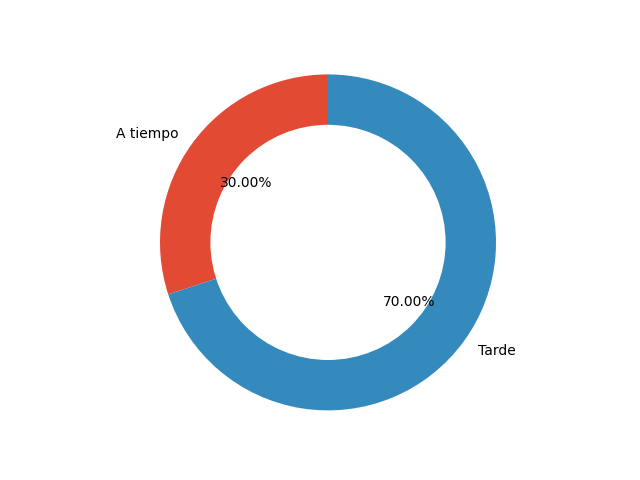
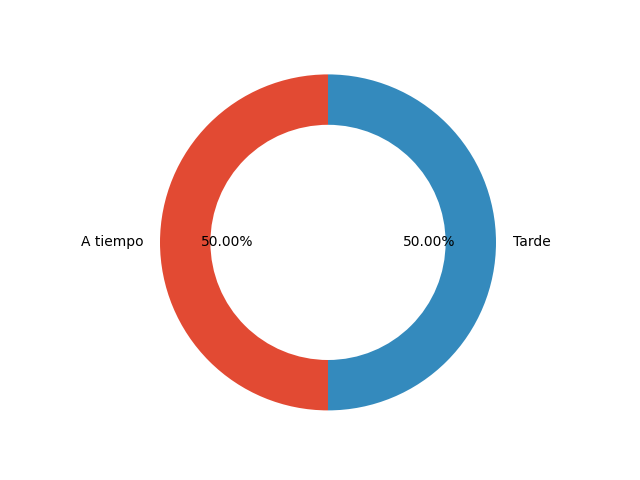
v1.20 arreglo de errores

diff --git a/panel.py b/panel.py
@@ -31,6 +31,7 @@ class PanelControl(QMainWindow):
         super().__init__()
         # Carga Panel de cotrol
         self.panel = uic.loadUi("frames\panel.ui",self)
+        self.EstadoPag=True
  
         # Establece titulo de la ventana
         self.panel.setWindowTitle("Bibliotk")
@@ -65,7 +66,7 @@ class PanelControl(QMainWindow):
         self.panel.actionAcerca_de.triggered.connect(self.acercaDe) # Ayuda: Acerca de
         self.panel.actionManual_de_Usuario.triggered.connect(self.abrirManual) # Ayuda: Manual de usuario
 
-
+        
 
         #FUNCIONES DE LOS BOTONES
 
@@ -196,11 +197,16 @@ class PanelControl(QMainWindow):
             self.panel.ClaveNueva.setEchoMode(QLineEdit.EchoMode.Password)
 
     def seleccionarAutores(self):
-        self.selecA = Autores()
-        self.selecA.remover.clicked.connect(lambda:self.removerAutor())
-        self.selecA.agregar.clicked.connect(lambda:self.agregarAutor(self.isbm))
-        self.selecA.BuscarA.clicked.connect(lambda:self.buscarAutores2())
-        self.tablaAutorLibros1() 
+        if self.EstadoPag:
+            self.EstadoPag=False
+            self.selecA = Autores()
+            self.selecA.remover.clicked.connect(lambda:self.removerAutor())
+            self.selecA.agregar.clicked.connect(lambda:self.agregarAutor(self.isbm))
+            self.selecA.BuscarA.clicked.connect(lambda:self.buscarAutores2())
+            self.tablaAutorLibros1()
+        else:
+            self.EstadoPag=True
+
 
     def agregarAutor(self,isbmp):
         filaSeleccionada = self.tablaA.selectedItems()
@@ -321,7 +327,7 @@ class PanelControl(QMainWindow):
     def seleccionarClientes(self):
         self.selecC = Clientes()
         self.tablaC2=self.selecC.tabla_Clientes2
-        sql="SELECT idClientes,Cedula,Nombre,Nombre2,Apellido,Apellido2,Genero,fechaNa,EstatusCliente FROM Clientes WHERE EstatusCliente=?"
+        sql="SELECT idClientes,Cedula,Nombre,Nombre2,Apellido,Apellido2,Genero,fechaNa,EstatusCliente FROM Clientes WHERE EstatusCliente=? AND ACTIVO='ACTIVO'"
         param = ("LIBRE",)
         res= consulta(sql, param).fetchall()
         colum=len(res)
@@ -493,7 +499,6 @@ class PanelControl(QMainWindow):
 
                 if clavePerfil != clave1:
                     
-
                     # Enviamos un correo de notificacion
                     sql2 = "SELECT email FROM Usuarios WHERE idUsuario=?"
                     param=(self.usuario,)
@@ -761,6 +766,7 @@ class PanelControl(QMainWindow):
         self.tableWidget = self.panel.tabla_Libros
         self.tableWidget.setRowCount(colum)
         tablerow=0
+
       
         self.panel.ISBML.clear()
         self.panel.TituloL.clear()
@@ -1253,14 +1259,13 @@ class PanelControl(QMainWindow):
             fecha_entReal = fecha3.strftime('%d/%m/%Y')
             fd=datetime.now()
             ff=fd.date()
-            una_fecha = datetime.strptime(ff,'%d/%m/%Y') 
             Eliminar1=str(dato)
             Eliminar2=re.sub(",","",Eliminar1)
             Eliminar3=re.sub("'","",Eliminar2)
             Eliminar4=re.sub("()","",Eliminar3)
             vddfi =re.sub("[()]","",Eliminar4)
             print(fecha_entReal)
-            print(una_fecha)
+            print(ff)
             print(ISBMn)
             print(vddfi)
             print(IdClien+" "+IdUser+" "+ISBMn+" "+fecha_sal+" "+fecha_ent+" "+fecha_entReal)
@@ -1271,7 +1276,7 @@ class PanelControl(QMainWindow):
                         ret = QMessageBox.question(self, '¡ADVERTENCIA!' , "¿Desea modificar esta fila?" , QMessageBox.Yes | QMessageBox.No)
                         print(ret)
                         if ret!=65536:
-                            if fecha_entReal!=una_fecha:
+                            if fecha_entReal!=ff:
                                 fecha_entReal=fecha3.strftime('%d/%m/%Y')
                                 print(fecha_entReal)
                                 sql2="UPDATE Clientes SET EstatusCliente=? WHERE idClientes=?"
@@ -1516,8 +1521,8 @@ class PanelControl(QMainWindow):
                 Ejemplar=0
             fd=datetime.now()
             ff=fd.date()
-            una_fecha = ff.strftime('%d/%m/%Y')
-            
+            una_fecha=ff.strftime('%d/%m/%Y')
+            print(ff)
             param4=(IdClien,)
             estatus1=consulta(sql4,param4).fetchone()
             Eliminar1=str(estatus1)
@@ -1539,7 +1544,8 @@ class PanelControl(QMainWindow):
                                     menos=Ejemplar-1
                                     param2=(menos,ISBMn)
                                     consulta(sql2,param2)
-                                    param3=("BLOQUEADO",IdClien)
+                                    nwe="BLOQUEADO"
+                                    param3=(nwe,IdClien,)
                                     consulta(sql5,param3)
                                     self.panel.buscar_Cliente.clear()
                                     self.panel.buscar_Libro.clear()
@@ -1550,7 +1556,7 @@ class PanelControl(QMainWindow):
                                     consulta(sql,param12)
                                     menos=Ejemplar-1
                                     param2=(menos,ISBMn)
-                                    consulta(sql5,param3)
+                                    consulta(sql2,param2)
                                     self.panel.buscar_Cliente.clear()
                                     self.panel.buscar_Libro.clear()
                                     QMessageBox.question(self, '¡EXITO!' , "Prestamo registrado exitosamente" , QMessageBox.Ok)
@@ -1605,7 +1611,6 @@ class PanelControl(QMainWindow):
         self.panel.stackedWidget.setCurrentIndex(6)
         self.cargarEstadisticas()
         
-
     def cargarEstadisticas(self):
         # Estos datos deben ser cambiados por los de la bdd
 
@@ -1663,16 +1668,17 @@ class PanelControl(QMainWindow):
         qry="SELECT ISBM FROM Prestamo WHERE ACTIVO='ACTIVO'"
         xd=consulta(qry).fetchall()
         con=0
+        fila=[]
         datose=[]
-        lib=[]
         for i in xd:
             Eliminar1=str(i)
             Eliminar2=re.sub(",","",Eliminar1)
             Eliminar3=re.sub("'","",Eliminar2)
             Eliminar4=re.sub("()","",Eliminar3)
             ipn =re.sub("[()]","",Eliminar4)
-            if i!=xd[con]:
-                qry2="SELECT COUNT(idPrestamo),ISBM FROM Prestamo WHERE ISBM=? AND ACTIVO='ACTIVO'"
+            print(ipn)
+            if ipn not in fila:
+                qry2="SELECT COUNT(idPrestamo) FROM Prestamo WHERE ISBM=? AND ACTIVO='ACTIVO'"
                 param=(ipn,)
                 res=consulta(qry2,param).fetchone()
                 Eliminar1=str(res)
@@ -1680,41 +1686,53 @@ class PanelControl(QMainWindow):
                 Eliminar3=re.sub("'","",Eliminar2)
                 Eliminar4=re.sub("()","",Eliminar3)
                 Estot =re.sub("[()]","",Eliminar4)
-                print(Estot)
-                print(Estot[0])
-                datose.append(res[0])
-                lib.append(res[1])
-                print(res[1])
+                Estote=int(Estot)
+                datose.append(Estote)
+                fila.append(ipn)
                 con+=1
-
         dt3=0
         dt2=0
         dt=0
-
+    
         log=len(datose)
+        
+        if datose!=[] and log==1:
+            dt=int(max(datose,default=0))
+            #datose.remove(dt)
 
-        if datose!=[]:
-            dt=int(max(datose))
-            datose.remove(dt)
-
-        if log>1:
-            dt2=int(max(datose))
-            datose.remove(dt2)
+        if datose!=[] and log>1:
+            dt=int(max(datose,default=0))
+            #datose.remove(dt)
+            dt2=int(max(datose,default=0))
+            #datose.remove(dt2)
        
-        if log>2:
-            dt3=int(max(datose))
-            datose.remove(dt3)
-
+        if datose!=[] and log>2:
+            dt=int(max(datose,default=0))
+            datose.remove(dt)
+            dt2=int(max(datose,default=0))
+            datose.remove(dt2)
+            dt3=int(max(datose,default=0))
+        
 
         qry5="SELECT COUNT(idPrestamo) FROM Prestamo WHERE F_d_ent=F_d_enReal AND ACTIVO='ACTIVO'"
-        print(consulta(qry5).fetchone())
+        p=consulta(qry5).fetchone()
+        Eliminar1=str(p)
+        Eliminar2=re.sub(",","",Eliminar1)
+        Eliminar3=re.sub("'","",Eliminar2)
+        Eliminar4=re.sub("()","",Eliminar3)
+        donutdt1 =re.sub("[()]","",Eliminar4)
 
-        qry6="SELECT COUNT(idPrestamo) FROM Prestamo WHERE ACTIVO='ACTIVO'"
-        print(consulta(qry6).fetchone())
+        qry6="SELECT COUNT(idPrestamo) FROM Prestamo WHERE F_d_ent!=F_d_enReal AND ACTIVO='ACTIVO'"
+        p1=consulta(qry6).fetchone()
+        Eliminar1=str(p1)
+        Eliminar2=re.sub(",","",Eliminar1)
+        Eliminar3=re.sub("'","",Eliminar2)
+        Eliminar4=re.sub("()","",Eliminar3)
+        donutdt2 =re.sub("[()]","",Eliminar4)
 
 
-        self.creaDona(30, 70)
-        self.creaBarras("Libro1", dt, "Libro2", dt2, "Libro3", dt3)
+        self.creaDona(donutdt1, donutdt2)
+        self.creaBarras("", dt, "Libro2", dt2, "Libro3", dt3)
 
         # Recarga imagenes de estadisticas
         self.pixmapBarras = QPixmap("reportes/barras.png")
@@ -1722,7 +1740,6 @@ class PanelControl(QMainWindow):
 
         self.pixmapDona = QPixmap("reportes/dona.png")
         self.panel.donaLabel.setPixmap(self.pixmapDona)
-
 
 
     # Crea un png del grafico de barras
@@ -1845,7 +1862,53 @@ class PanelControl(QMainWindow):
         Eliminar4=re.sub("()","",Eliminar3)
         PAtotales =re.sub("[()]","",Eliminar4)
 
-        self.creaBarras("Libro1", 120, "Libro2", 80, "Libro3", 50)
+        qry="SELECT ISBM FROM Prestamo WHERE ACTIVO='ACTIVO'"
+        xd=consulta(qry).fetchall()
+        con=0
+        fila=[]
+        datose=[]
+        for i in xd:
+            Eliminar1=str(i)
+            Eliminar2=re.sub(",","",Eliminar1)
+            Eliminar3=re.sub("'","",Eliminar2)
+            Eliminar4=re.sub("()","",Eliminar3)
+            ipn =re.sub("[()]","",Eliminar4)
+            print(ipn)
+            if ipn not in fila:
+                qry2="SELECT COUNT(idPrestamo) FROM Prestamo WHERE ISBM=? AND ACTIVO='ACTIVO'"
+                param=(ipn,)
+                res=consulta(qry2,param).fetchone()
+                Eliminar1=str(res)
+                Eliminar2=re.sub(",","",Eliminar1)
+                Eliminar3=re.sub("'","",Eliminar2)
+                Eliminar4=re.sub("()","",Eliminar3)
+                Estot =re.sub("[()]","",Eliminar4)
+                Estote=int(Estot)
+                datose.append(Estote)
+                fila.append(ipn)
+                con+=1
+        dt3=0
+        dt2=0
+        dt=0
+    
+        log=len(datose)
+        
+        if datose!=[] and log==1:
+            dt=int(max(datose,default=0))
+
+        if datose!=[] and log>1:
+            dt=int(max(datose,default=0))
+            datose.remove(dt)
+            dt2=int(max(datose,default=0))
+       
+        if datose!=[] and log>2:
+            dt=int(max(datose,default=0))
+            datose.remove(dt)
+            dt2=int(max(datose,default=0))
+            datose.remove(dt2)
+            dt3=int(max(datose,default=0))
+
+        self.creaBarras("Libro1", dt, "Libro2", dt2, "Libro3", dt3)
 
         # Abre File Dialog
         rutadestino = QFileDialog.getExistingDirectory(self, caption="Selecciona Ubicación")
@@ -2032,7 +2095,7 @@ class PanelControl(QMainWindow):
             s = create_connection(("publuu.com", 80))
             if s is not None:
                 s.close
-            webbrowser.open_new_tab("https://publuu.com/flip-book/185493/465244")
+            webbrowser.open_new_tab("https://publuu.com/flip-book/198125/479879")
         except OSError:
             QMessageBox.critical(self, "No hay conexión a internet", "No se a podido aceder a la version online del manual, se abrirá la versión local", QMessageBox.Ok)
     

diff --git a/autores.py b/autores.py
@@ -1,15 +1,15 @@
 from PyQt5 import uic, QtGui
-from PyQt5.QtWidgets import QMainWindow
-
+from PyQt5.QtWidgets import QMainWindow,QMessageBox
 class Autores(QMainWindow):
 
     def __init__(self):
         super().__init__()
 
         self.autor = uic.loadUi("frames\SeleccionarA.ui",self)
-
+        self.e=False
         # Establece titulo de la ventana
         self.autor.setWindowTitle("Seleccione Autores")
         self.autor.setWindowIcon(QtGui.QIcon('logo.png'))
         # Establece el tamaño de la ventana y hace que no puedas cambiar su tamaño
         self.autor.setFixedSize(800, 600) # (Ancho, Alto)
+
